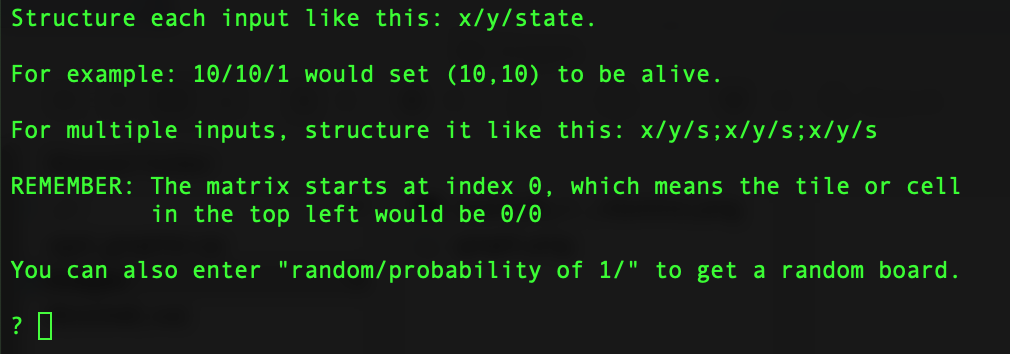
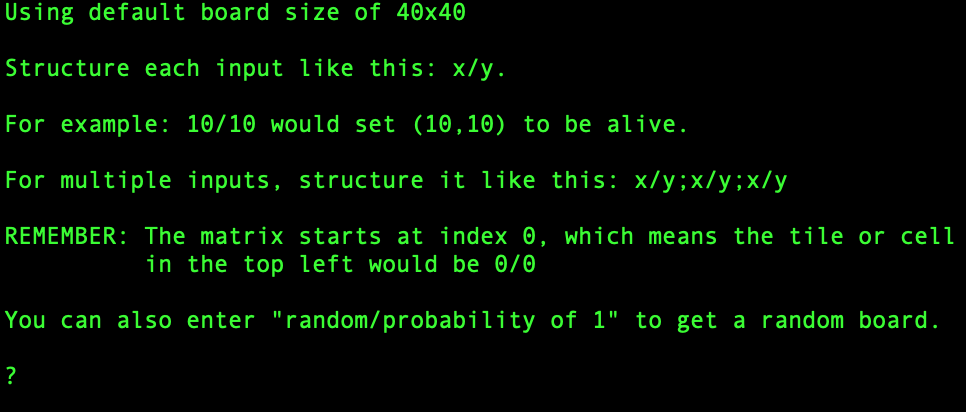
updated images AGAIN

diff --git a/cgol_grapher.py b/cgol_grapher.py
@@ -81,7 +81,7 @@ for gen in range(1, iterations+1):
             #time.sleep(0.1)
     board1 = copy.deepcopy(board2)
     #print(board1)
-    #R-Pentomino: 10/10/1;11/10/1;9/11/1;10/11/1;10/12/1
+    #R-Pentomino: 10/10;11/10;9/11;10/11;10/12
     time.sleep(0.05)
 
 print("\nDone!\n")
